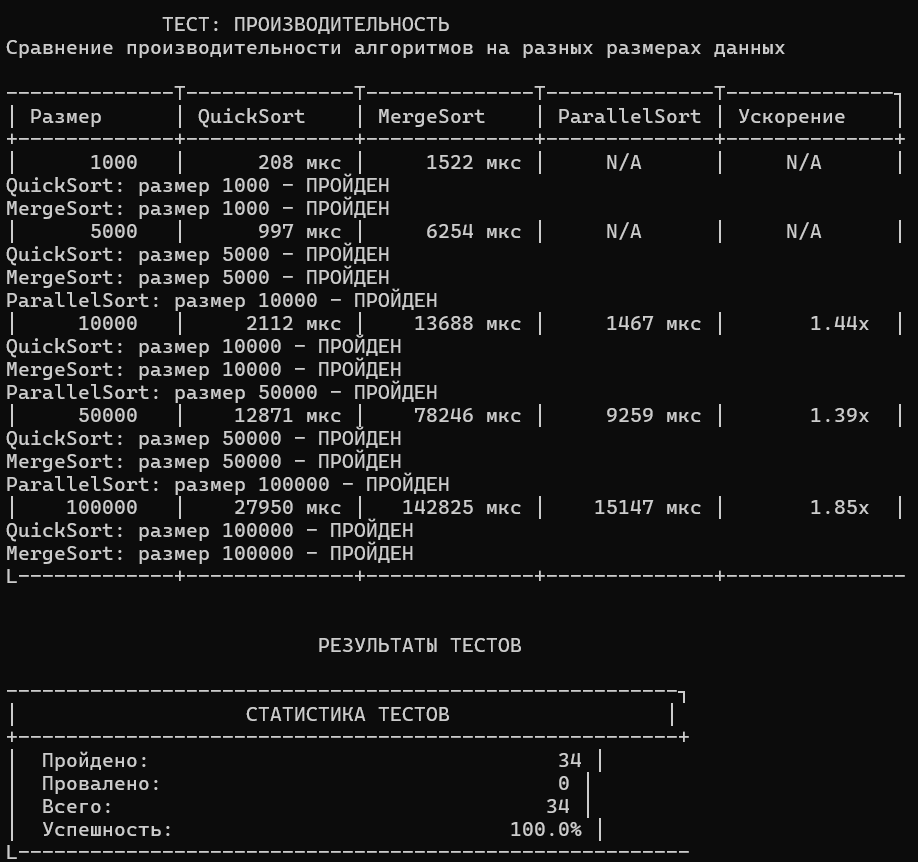
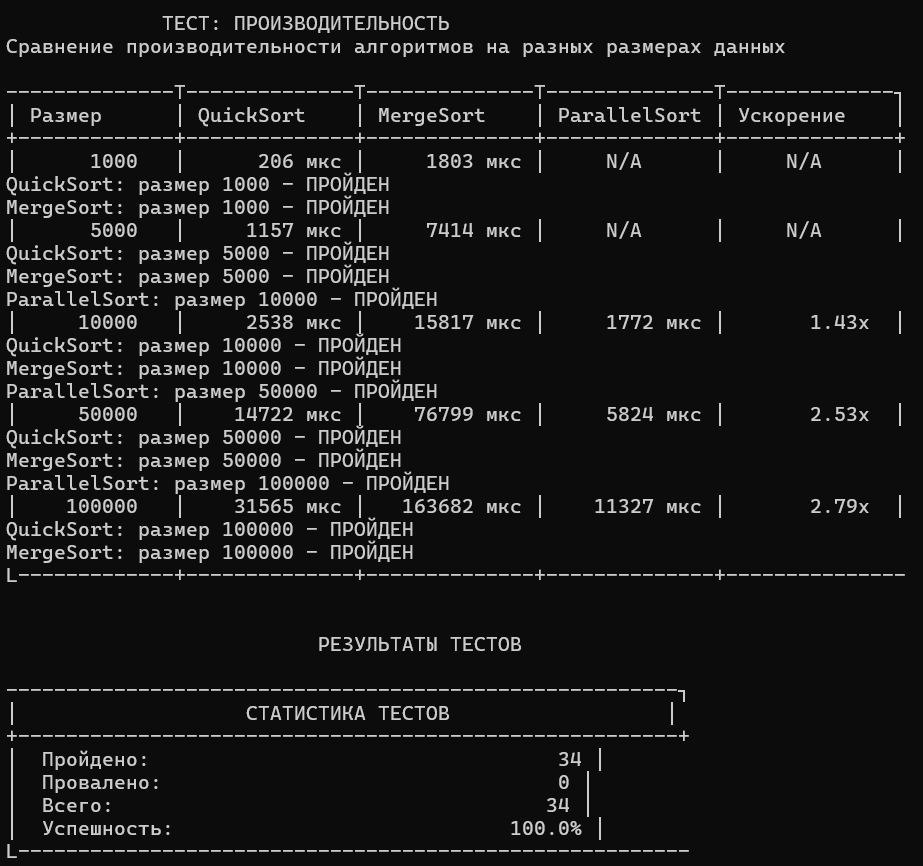
Исправления в реализации параллельной сортировки

diff --git a/ParallelSort.h b/ParallelSort.h
@@ -1,0 +1,47 @@
+#ifndef PARALLELSORT_H
+#define PARALLELSORT_H
+
+#include <vector>
+#include <thread>
+#include <algorithm>
+
+// Параллельная быстрая сортировка с использованием потоков
+template<typename T>
+void Sorter<T>::parallelQuickSort(std::vector<T>& arr, int numThreads) {
+    // Для маленьких массивов используем обычную сортировку
+    if (arr.size() < 10000 || numThreads <= 1) {
+        quickSort(arr);
+        return;
+    }
+
+    // Находим середину массива
+    int mid = static_cast<int>(arr.size() / 2);
+
+    // Разделяем массив на две части
+    std::vector<T> left(arr.begin(), arr.begin() + mid);
+    std::vector<T> right(arr.begin() + mid, arr.end());
+
+    // Распределяем потоки между левой и правой частью
+    // Например: если всего 4 потока, то левая получает 2, правая получает 2
+    int leftThreads = numThreads / 2;
+    int rightThreads = numThreads - leftThreads;
+
+    // Создаем потоки для параллельной сортировки
+    std::vector<std::thread> threads;
+    // Запускаем рекурсивную параллельную сортировку для левой части
+    threads.emplace_back([&]() {parallelQuickSort(left, leftThreads); });
+    // Запускаем рекурсивную параллельную сортировку для правой части
+    threads.emplace_back([&]() {parallelQuickSort(right, rightThreads); });
+
+    // Ждем завершения обоих потоков
+    for (auto& t : threads) {
+        t.join();
+    }
+
+    // Слияние двух отсортированных частей
+    std::merge(left.begin(), left.end(),
+        right.begin(), right.end(),
+        arr.begin());
+}
+
+#endif // PARALLELSORT_H